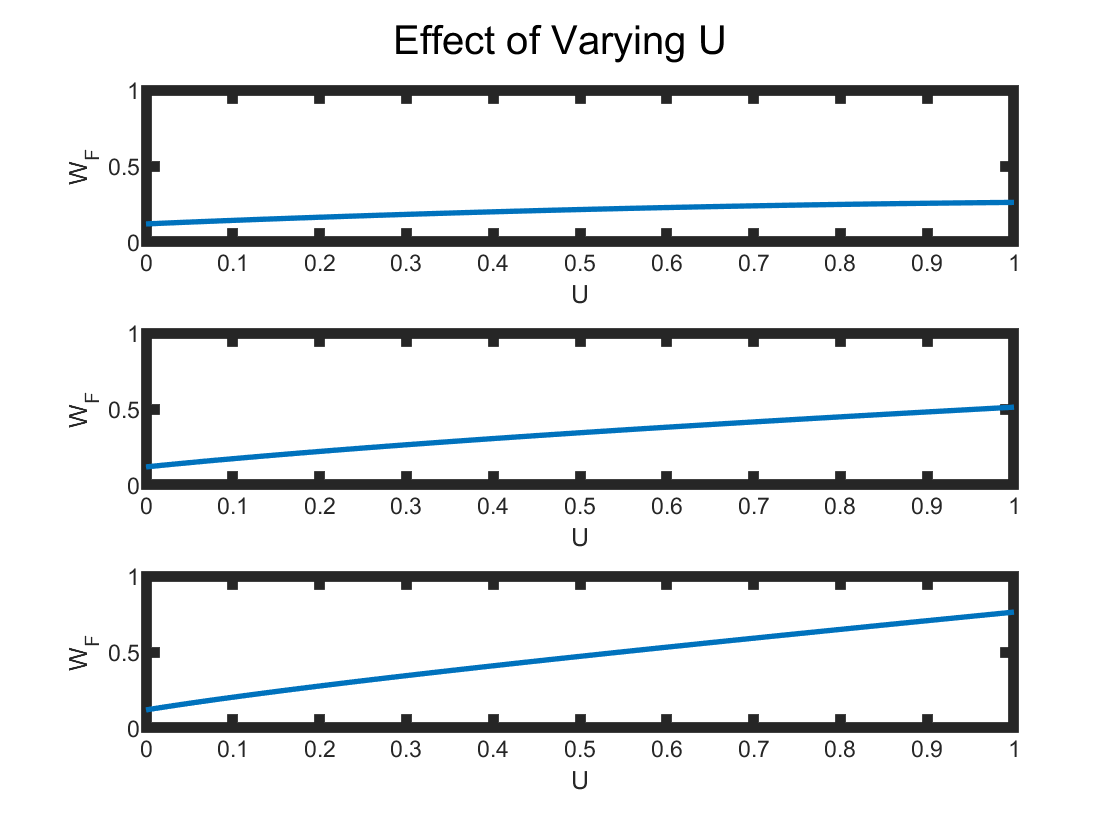
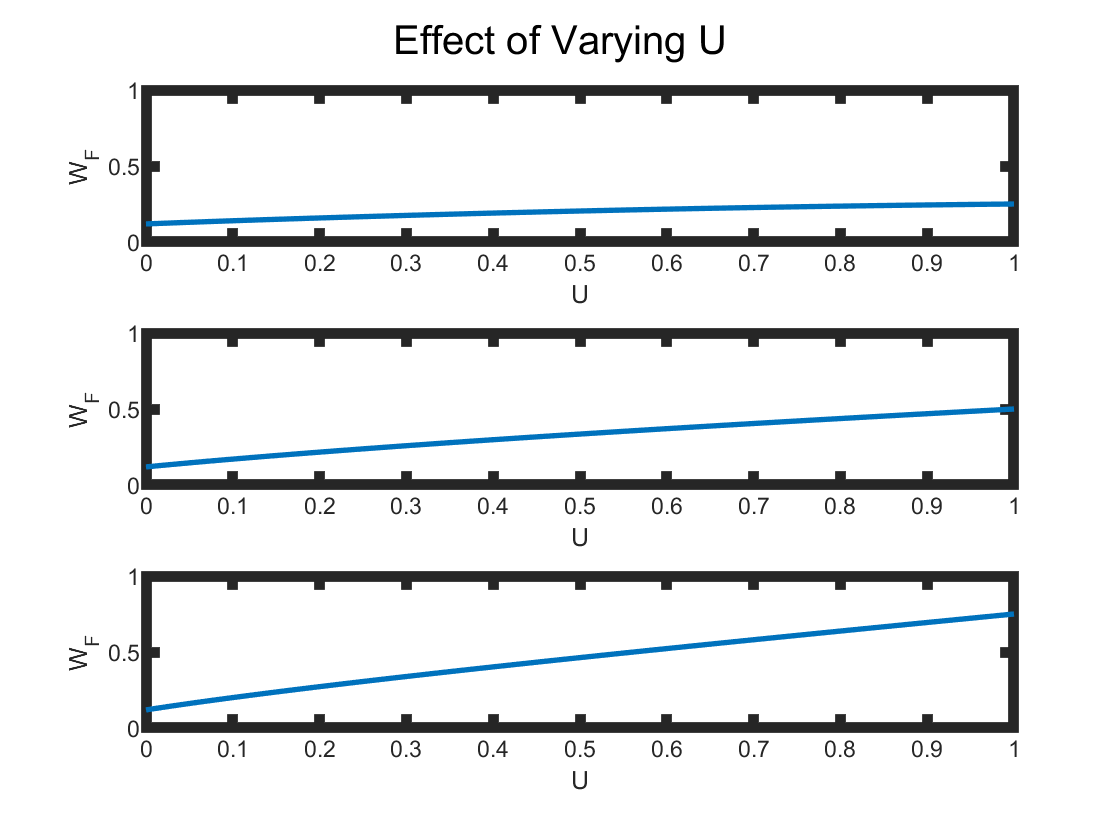
additional figures

diff --git a/parameterOptimizatoin.m b/parameterOptimizatoin.m
@@ -5,7 +5,7 @@ W1 = zeros(size(u));
 W2 = zeros(size(u));
 W3 = zeros(size(u));
 for i = 1:length(u)
-    Y1 = unitIncomes(u(i),Q,0.12);
+    Y1 = unitIncomes(u(i),Q,0.25);
     Y2 = unitIncomes(u(i),Q,0.5);
     Y3 = unitIncomes(u(i),Q,0.75);
     W1(i) = WF(Y1);
@@ -42,16 +42,16 @@ set (gcf, 'color', 'w');
 set (gca, 'linewidth', 4)
 
 %% Two export rates model
-U = 0;
 x = 0:0.01:1;
+E = 1;
 W1 = zeros(size(u));
 W2 = zeros(size(u));
 W3 = zeros(size(u));
 for i = 1:length(x)
     Q = [x(i);x(i);x(i);1-x(i);1-x(i)];
-    Y1 = unitIncomes(U,Q,0.25);
-    Y2 = unitIncomes(U,Q,0.5);
-    Y3 = unitIncomes(U,Q,0.75);
+    Y1 = unitIncomes(0.25,Q,E);
+    Y2 = unitIncomes(0.5,Q,E);
+    Y3 = unitIncomes(0.75,Q,E);
     W1(i) = WF(Y1);
     W2(i) = WF(Y2);
     W3(i) = WF(Y3);
@@ -61,7 +61,7 @@ sgtitle('Two Export Rates Model')
 subplot(3,1,1)
 
 plot(x,W1, "LineWidth", 2)
-xlabel('U')
+xlabel('q')
 ylabel('W_F')
 ylim([0 1])
 set (gcf, 'color', 'w');
@@ -70,7 +70,7 @@ set (gca, 'linewidth', 4)
 subplot(3,1,2)
 
 plot(x,W2, "LineWidth", 2)
-xlabel('U')
+xlabel('q')
 ylabel('W_F')
 ylim([0 1])
 set (gcf, 'color', 'w');
@@ -79,12 +79,18 @@ set (gca, 'linewidth', 4)
 subplot(3,1,3)
 
 plot(x,W3, "LineWidth", 2)
-xlabel('U')
+xlabel('q')
 ylabel('W_F')
 ylim([0 1])
 set (gcf, 'color', 'w');
 set (gca, 'linewidth', 4)
-
+% plot(x,W1, "LineWidth", 2)
+% title('Effect of Varying q')
+% xlabel('q')
+% ylabel('W_F')
+% ylim([0 1])
+% set (gcf, 'color', 'w');
+% set (gca, 'linewidth', 4)
 
 %% One Export Rate Model
 U = 0;
@@ -101,30 +107,38 @@ for i = 1:length(x)
     W2(i) = WF(Y2);
     W3(i) = WF(Y3);
 end
+% figure(3)
+% sgtitle('One Export Rate Model')
+% subplot(3,1,1)
+% 
+% plot(x,W1, "LineWidth", 2)
+% xlabel('U')
+% ylabel('W_F')
+% ylim([0 1])
+% set (gcf, 'color', 'w');
+% set (gca, 'linewidth', 4)
+% 
+% subplot(3,1,2)
+% 
+% plot(x,W2, "LineWidth", 2)
+% xlabel('U')
+% ylabel('W_F')
+% ylim([0 1])
+% set (gcf, 'color', 'w');
+% set (gca, 'linewidth', 4)
+% 
+% subplot(3,1,3)
+% 
+% plot(x,W3, "LineWidth", 2)
+% xlabel('U')
+% ylabel('W_F')
+% ylim([0 1])
+% set (gcf, 'color', 'w');
+% set (gca, 'linewidth', 4)
 figure(3)
-sgtitle('One Export Rate Model')
-subplot(3,1,1)
-
 plot(x,W1, "LineWidth", 2)
-xlabel('U')
-ylabel('W_F')
-ylim([0 1])
-set (gcf, 'color', 'w');
-set (gca, 'linewidth', 4)
-
-subplot(3,1,2)
-
-plot(x,W2, "LineWidth", 2)
-xlabel('U')
-ylabel('W_F')
-ylim([0 1])
-set (gcf, 'color', 'w');
-set (gca, 'linewidth', 4)
-
-subplot(3,1,3)
-
-plot(x,W3, "LineWidth", 2)
-xlabel('U')
+title('Effect of Varying Q_i')
+xlabel('Q_i')
 ylabel('W_F')
 ylim([0 1])
 set (gcf, 'color', 'w');
@@ -147,6 +161,21 @@ ylabel('dW_F/dU')
 set (gcf, 'color', 'w');
 set (gca, 'linewidth', 4)
 
+%% 
+x = 0:0.01:1;
+W = zeros(size(u));
+for i = 1:length(x)
+    Q = [x(i);x(i);x(i);1-x(i);1-x(i)];
+    for j = 1:length(e)
+        dWdU(i) =  WF( unitIncomes( 1,Q,e(j) ) ) - WF( unitIncomes( 0,Q,e(j) ) );
+        [~,index(i)] = min(abs(dWdU));
+    end
+end
+
+
+
+
+
 
 %% Functions
 
@@ -158,7 +187,7 @@ function out = unitIncomes(U,Q,E)
         0.31 , 0.19 , 0.47 , 0.34 , 0.8 ;
         0.015 , 0.016 , 0.043 , 0.19 , 0.008 ;
         0.019 , 0.0082 , 0.024 , 0.0065 , 0.037];
-    out = (1-U)*S+(T-eye(5))*S.*Q + E*U*sum(S)*P;
+    out = (1-U)*S+(1-U)*(T-eye(5))*S.*Q + E*U*sum(S)*P;
 end
 
 function out =  WF(Yraw)
